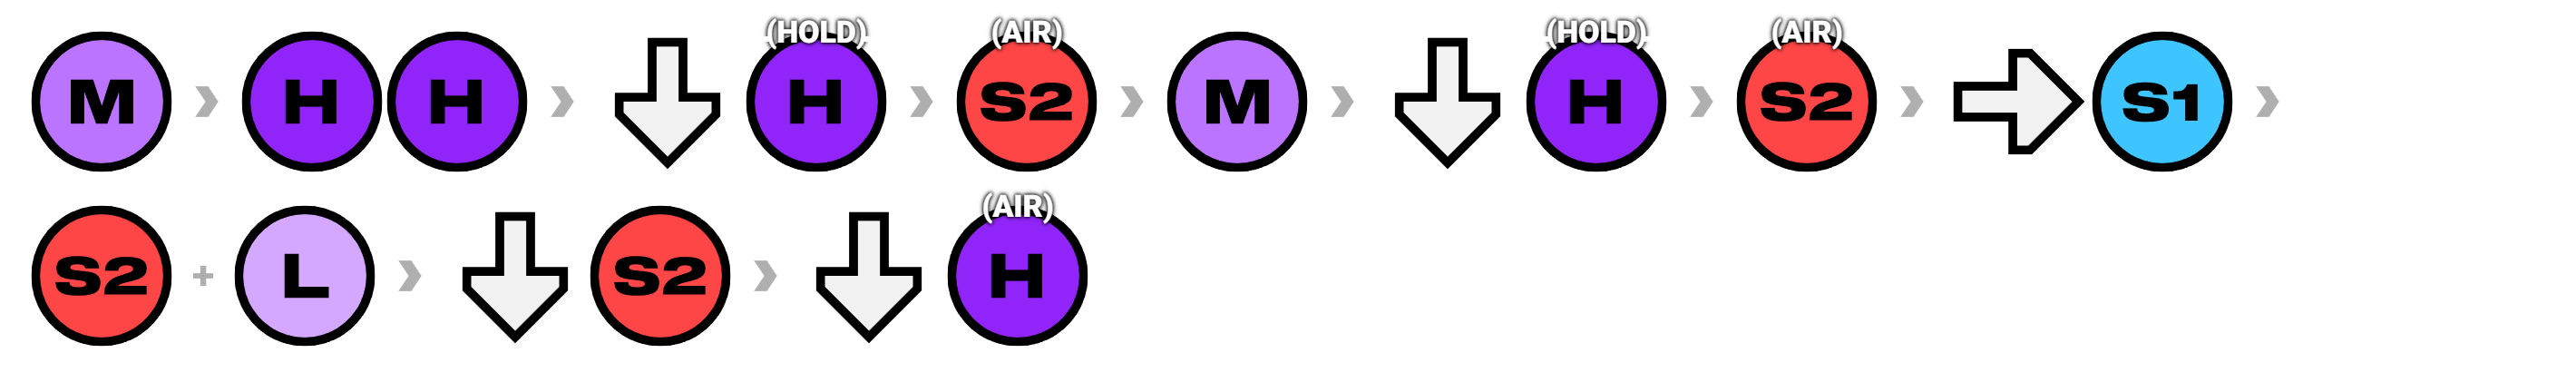
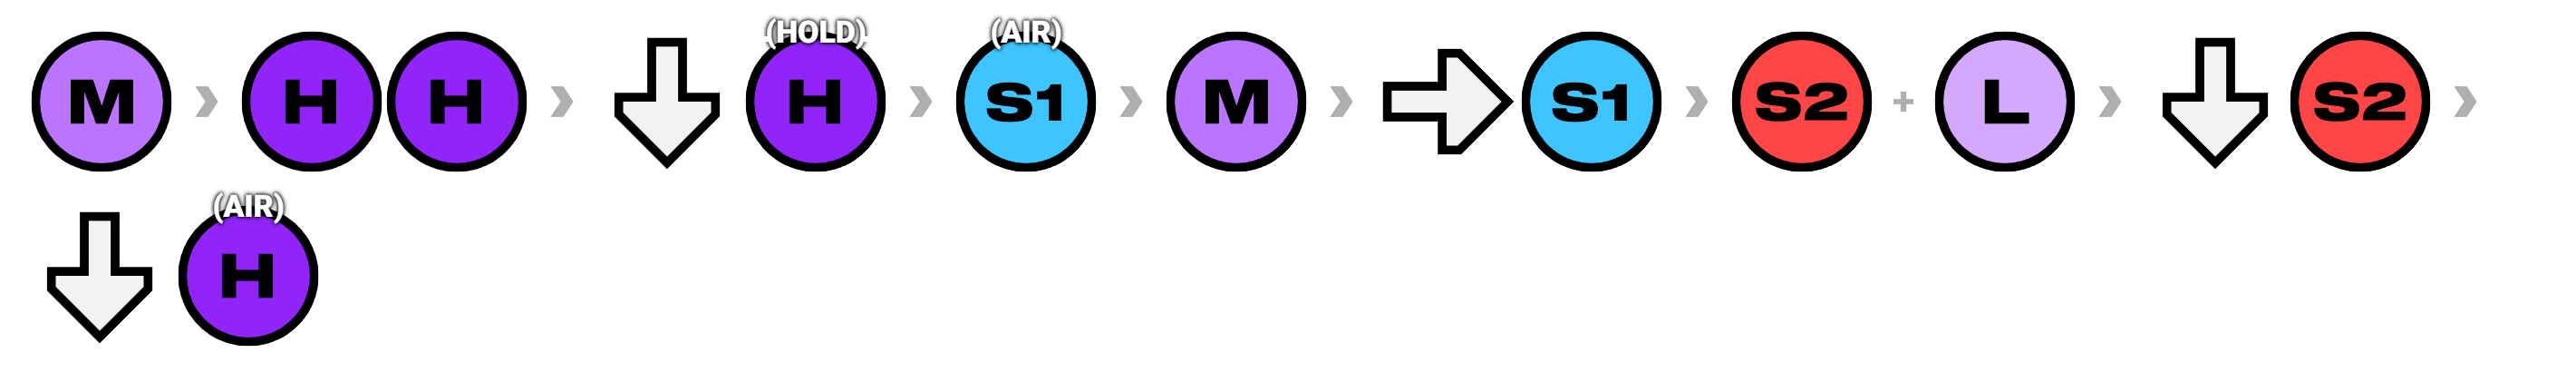
Teemo and Illaoi completed
also added warwick combo videos

diff --git a/src/data/characters/illaoi.js b/src/data/characters/illaoi.js
@@ -1,6 +1,6 @@
 export const illaoi = {
   name: 'Illaoi',
-  isComplete: false,
+  isComplete: true,
   archetype: 'bruiser',
   stats: {
     range: 3,
@@ -11,9 +11,9 @@ export const illaoi = {
   },
   heroImageOffset: { desktop: -57, mobile: -28 }, // Vertical offset in px for hero banner image (negative = up, positive = down)
  guideAuthor: {
-    name: 'Quicksand_FGC', // Author name to display
-    youtube: 'https://www.youtube.com/@Quicksand_FGC', // YouTube channel URL (leave empty if none)
-    twitter: 'https://x.com/Quicksand_FGC', // Twitter/X profile URL (leave empty if none)
+    name: 'BrueTube', // Author name to display
+    youtube: 'Just can link my YT https://youtube.com/@bruetube?si=tCpOqi3YZ_zQlMqN', // YouTube channel URL (leave empty if none)
+    twitter: '', // Twitter/X profile URL (leave empty if none)
     twitch: '', // Twitch channel URL (leave empty if none)
   },
   tabs: [
@@ -21,19 +21,18 @@ export const illaoi = {
         id: 'key_moves',
         title: 'Key Moves',
         description: [
-          "Vi is a rushdown character with the ability to swiftly move in, as well as bait and punish with 6S1.",
-          "Vi's 6S1 (Sway) is a great movement tool, but also can lead into her iconic Electrics. These are timing based attacks that can be performed after a 6S1, and if timed correctly for damage and pressure.",
-          "Overall, Vi is fast, aggressive, and thrives on getting in the opponent's face to keep them on the defensive.",
+          "Illaoi is a setplay character, with strong buttons and good wall carry to set up her tentacles for oki.",
+          "Her unique mechanic is tentacles which are summoned with S2 moves, and controlled by S1 moves. These tentacles define her character and are what allow her pressure and grabs to funciton."
         ],
         moves: [
-          { numericNotation: '5M/2M', notation: 'blabla', notationImage: '/key-moves-notation/illaoi/illaoi.png', description: 'Illaoi\'s mediums are very good. 5M and 2M help you approach while maintaining pressure from a good distance', video: 'videos/illaoi/key-moves/illaoi-key1.mp4' },
-          { numericNotation: '6S1', notation: 'blabla', notationImage: '/key-moves-notation/illaoi/illaoi2.png', description: 'This move has a huge hitbox and hurtbox but clears projectiles and traps. Use it to approach zoners like Jinx, Teemo and Caitlyn, or just to throw a large button to control space on the screen', video: 'videos/illaoi/key-moves/illaoi-key2.mp4' },
-          { numericNotation: 'S2 super', notation: 'blabla', notationImage: '/key-moves-notation/illaoi/illaoi3.png', description: 'High vertical reaching Anti-air, often very safe on block', video: 'videos/illaoi/key-moves/illaoi-key3.mp4' },
-          { numericNotation: 'j.S2', notation: 'blabla', notationImage: '/key-moves-notation/illaoi/illaoi4.png', description: 'Safest poke/combo starter normal in neutral	', video: 'videos/illaoi/key-moves/illaoi-key4.mp4' },
-          { numericNotation: 'S1 super', notation: 'blabla', notationImage: '/key-moves-notation/illaoi/illaoi5.png', description: 'Vi\'s 4 frame counter, easy to use on defense against auto-piloters', video: 'videos/illaoi/key-moves/illaoi-key5.mp4' },   
-          { numericNotation: '6S2', notation: 'blabla', notationImage: '/key-moves-notation/illaoi/illaoi5.png', description: 'Vi\'s 4 frame counter, easy to use on defense against auto-piloters', video: 'videos/illaoi/key-moves/illaoi-key5.mp4' },   
-          { numericNotation: '4S1/1S1', notation: 'blabla', notationImage: '/key-moves-notation/illaoi/illaoi5.png', description: 'Vi\'s 4 frame counter, easy to use on defense against auto-piloters', video: 'videos/illaoi/key-moves/illaoi-key5.mp4' },   
-          { numericNotation: '2S2', notation: 'blabla', notationImage: '/key-moves-notation/illaoi/illaoi5.png', description: 'Vi\'s 4 frame counter, easy to use on defense against auto-piloters', video: 'videos/illaoi/key-moves/illaoi-key5.mp4' }   
+          { numericNotation: '5M/2M', notation: 'blabla', notationImage: '/key-moves-notation/illaoi/illaoi1.png', description: 'Illaoi\'s mediums are very good. 5M and 2M help you approach while maintaining pressure from a good distance', video: 'videos/illaoi/key-moves/illaoi1.mp4' },
+          { numericNotation: '6S1', notation: 'blabla', notationImage: '/key-moves-notation/illaoi/illaoi2.png', description: 'This move has a huge hitbox and hurtbox but clears projectiles and traps. Use it to approach zoners like Jinx, Teemo and Caitlyn, or just to throw a large button to control space on the screen', video: 'videos/illaoi/key-moves/illaoi2.mp4' },
+          { numericNotation: 'S2 super', notation: 'blabla', notationImage: '/key-moves-notation/illaoi/illaoi3.png', description: 'High vertical reaching Anti-air, often very safe on block', video: 'videos/illaoi/key-moves/illaoi3.mp4' },
+          { numericNotation: 'j.S2', notation: 'blabla', notationImage: '/key-moves-notation/illaoi/illaoi4.png', description: 'Safest poke/combo starter normal in neutral	', video: 'videos/illaoi/key-moves/illaoi4.mp4' },
+          { numericNotation: 'S1 super', notation: 'blabla', notationImage: '/key-moves-notation/illaoi/illaoi5.png', description: 'Vi\'s 4 frame counter, easy to use on defense against auto-piloters', video: 'videos/illaoi/key-moves/illaoi5.mp4' },   
+          { numericNotation: '6S2', notation: 'blabla', notationImage: '/key-moves-notation/illaoi/illaoi6.png', description: 'Vi\'s 4 frame counter, easy to use on defense against auto-piloters', video: 'videos/illaoi/key-moves/illaoi6.mp4' },   
+          { numericNotation: '4S1/1S1', notation: 'blabla', notationImage: '/key-moves-notation/illaoi/illaoi7.png', description: 'Vi\'s 4 frame counter, easy to use on defense against auto-piloters', video: 'videos/illaoi/key-moves/illaoi7.mp4' },   
+          { numericNotation: '2S2', notation: 'blabla', notationImage: '/key-moves-notation/illaoi/illaoi8.png', description: 'Vi\'s 4 frame counter, easy to use on defense against auto-piloters', video: 'videos/illaoi/key-moves/illaoi8.mp4' }   
         ]
       },
       {
@@ -44,22 +43,27 @@ export const illaoi = {
 
         ],
         combos: [
-          { purpose: 'BnB', numericNotation: 'M > H > 6S1 > L > {M} > 6S1 > {M} > {H} > 6S1 > {M} > 6S1 > {M} > 6S1 > {L} > M > H > 2S2 > S2+M', notationImage: '/combo-notation/illaoi/illaoi-combo-1.png', video: 'videos/illaoi/combos/illaoi-combo-1.mp4' },
-          { purpose: 'Corner Combo', numericNotation: 'M > H > 6S1 > L > {M} > 6S1 > [L] > {M} > 6S1 > [L] > {M} > 6S1 > [L] > 6S1 > L > M > H > 2S2 > S2+M', notationImage: '/combo-notation/illaoi/illaoi-combo-2.png', video: 'videos/illaoi/combos/illaoi-combo-2.mp4' },
-          { purpose: 'Limit Strike', numericNotation: 'M > H > 6S1 > L > M > 6S1 > {M} > {H} > 6S1 > {M} > 6S1 > {M} > {H}', notationImage: '/combo-notation/illaoi/illaoi-combo-3.png', video: 'videos/illaoi/combos/illaoi-combo-3.mp4' },
-          { purpose: 'Tag Launcher', numericNotation: '2M > H > 6S1 > L > {M} > 6S1 > {L} > S1 > Dash > L > M > 2H > Jump > {j.S1} > 2M > Tag launch', notationImage: '/combo-notation/illaoi/illaoi-combo-4.png', video: 'videos/illaoi/combos/illaoi-combo-4.mp4' },
-          { purpose: 'Jump In', numericNotation: 'j.H> M > H > 6S1 > L > {M} > 6S1 >/*{M}*\/> {H} <*/> 6S1 <*/>{M}*\/> 6S1 <*/>{H}*\/> 6S1 <*/>{L}*\/> M <*/> H', notationImage: '/combo-notation/illaoi/illaoi-combo-5.png', video: 'videos/illaoi/combos/illaoi-combo-5.mp4' },
-          { purpose: 'Fury', numericNotation: 'M <*/> H <*/> 6S1 <*/> L <*/> {M} <*/> 6S1 <*/> {M} <*/> {H} <*/> 6S1 <*/> {M} <*/> 6S1 >>{M}> 6S1>{L}> M>H>Fury>Dash>H>H>S1>Dash cancel>H>2H>Jump>jH>jS1>Dash cancel>2S2>S1+S3', notationImage: '/combo-notation/illaoi/illaoi-combo-6.png', video: 'videos/illaoi/combos/illaoi-combo-6.mp4' }
+          { purpose: 'BnB', numericNotation: '2M>M>H>2S2>66>M>H>j.M>j.H>j.S1>2M>M>H>2H>j.M>j.H>j.S2', notationImage: '/combo-notation/illaoi/illaoi-combo-1.png', video: 'videos/illaoi/combos/illaoi-combo-1.mp4' },
+          { purpose: 'Corner Carry', numericNotation: '2M>5M>5H>2S2>66>66>5M>5H>j.L>j.M>j.H>j.S1>[2H]>2H>j.M>j.H>j.S2', notationImage: '/combo-notation/illaoi/illaoi-combo-2.png', video: 'videos/illaoi/combos/illaoi-combo-2.mp4' },
+          { purpose: 'Side Swap', numericNotation: '2M>M>H>2S2>66>M>H>j.M>j.H>j.S1>66>5L>5M>5H>j.M>j.H>j.S2', notationImage: '/combo-notation/illaoi/illaoi-combo-3.png', video: 'videos/illaoi/combos/illaoi-combo-3.mp4' },
+          { purpose: 'Jump In', numericNotation: 'j.[H]>2M>M>H>2S2>66>M>H>j.M>j.H>j.S1>2M>M>H>2H>j.M>j.H>j.S2', notationImage: '/combo-notation/illaoi/illaoi-combo-4.png', video: 'videos/illaoi/combos/illaoi-combo-4.mp4' },
+          { purpose: 'Crossup Jump In', numericNotation: 'j.[2H]>2M>M>H>2S2>66>M>H>j.M>j.H>j.S1>2M>M>H>2H>j.M>j.H>j.S2', notationImage: '/combo-notation/illaoi/illaoi-combo-5.png', video: 'videos/illaoi/combos/illaoi-combo-5.mp4' },
+          { purpose: 'Corner Combo (Medium)', numericNotation: '2M>5H>2S2>[2H].c>j.S1>[2H]>66>5M>5H>2H>j.M>j.H>j.S2', notationImage: '/combo-notation/illaoi/illaoi-combo-6.png', video: 'videos/illaoi/combos/illaoi-combo-6.mp4' },
+          { purpose: 'Corner Combo (HARD)', numericNotation: '2M>5M>5H>2S2>66>5M>5H>2H>j.L>j.L>j.L>j.L>j.S2>j.H>j.S1>2H>2S1>[2H].c>j.H>j.S2', notationImage: '/combo-notation/illaoi/illaoi-combo-7.png', video: 'videos/illaoi/combos/illaoi-combo-7.mp4' },
+          { purpose: 'Fury', numericNotation: '2M>5M>5H>2S2.c>Fury>66>5M>5H>j.M>j.H>j.S2.c>66.c>5L>2S1>[2H].c>j.H>j.S2>Super', notationImage: '/combo-notation/illaoi/illaoi-combo-8.png', video: 'videos/illaoi/combos/illaoi-combo-8.mp4' },
+          { purpose: 'Grab Combo', numericNotation: 'Grab>[2H]>66>2H>j.M>j.H>j.S2', notationImage: '/combo-notation/illaoi/illaoi-combo-9.png', video: 'videos/illaoi/combos/illaoi-combo-9.mp4' },
+          { purpose: 'Air Grab Combo', numericNotation: 'Air Grab>[2H]>66>2H>j.M>j.H>j.S2', notationImage: '/combo-notation/illaoi/illaoi-combo-10.png', video: 'videos/illaoi/combos/illaoi-combo-10.mp4' }
         ],
         //between combos and enders
         description2: [
         ],
         comboEnders: [
-          { purpose: 'For Oki', numericNotation: '6S1+H', notationImage: '/combo-notation/illaoi/combo-enders/illaoi-comboEnder1.png', video: 'videos/illaoi/combo-enders/illaoi-ender1.mp4' },
-          { purpose: 'Limit Strike', numericNotation: 'S2, 6S1+[H]', notationImage: '/combo-notation/illaoi/combo-enders/illaoi-comboEnder2.png', video: 'videos/illaoi/combo-enders/illaoi-ender2.mp4' },
-          { purpose: 'Damage and Super Followups', numericNotation: '2S2', notationImage: '/combo-notation/illaoi/combo-enders/illaoi-comboEnder3.png', video: 'videos/illaoi/combo-enders/illaoi-ender3.mp4' },
-          { purpose: 'Assist Setups', numericNotation: 'S1/Charge S1', notationImage: '/combo-notation/illaoi/combo-enders/illaoi-comboEnder4.png', video: 'videos/illaoi/combo-enders/illaoi-ender4.mp4' },
-          { purpose: 'Tag Launcher', numericNotation: 'Charge jS1 > Tag Launch', notationImage: '/combo-notation/illaoi/combo-enders/illaoi-comboEnder5.png', video: 'videos/illaoi/combo-enders/illaoi-ender5.mp4' },
+          { purpose: 'For Oki', numericNotation: 'S2+M', notationImage: '/combo-notation/illaoi/combo-enders/illaoi-comboEnder1.png', video: 'videos/illaoi/combo-enders/illaoi-ender1.mp4' },
+          { purpose: 'Limit Strike', numericNotation: '2S1', notationImage: '/combo-notation/illaoi/combo-enders/illaoi-comboEnder2.png', video: 'videos/illaoi/combo-enders/illaoi-ender2.mp4' },
+          { purpose: 'Damage', numericNotation: 'S1+L', notationImage: '/combo-notation/illaoi/combo-enders/illaoi-comboEnder3.png', video: 'videos/illaoi/combo-enders/illaoi-ender3.mp4' },
+          { purpose: 'Assist Setups', numericNotation: '6S2, j.S2', notationImage: '/combo-notation/illaoi/combo-enders/illaoi-comboEnder4.png', video: 'videos/illaoi/combo-enders/illaoi-ender4.mp4' },
+          { purpose: 'Tag Launcher', numericNotation: '2S1/j.S1 > T', notationImage: '/combo-notation/illaoi/combo-enders/illaoi-comboEnder5.png', video: 'videos/illaoi/combo-enders/illaoi-ender5.mp4' },
+          { purpose: 'Wall Bounce Limit Strike', numericNotation: '[2H]', notationImage: '/combo-notation/illaoi/combo-enders/illaoi-comboEnder6.png', video: 'videos/illaoi/combo-enders/illaoi-ender6.mp4' },
         ],
         //below everything
         description3: [
@@ -70,47 +74,32 @@ export const illaoi = {
       {
         id: 'team_synergies',
         title: 'Teams',
-        description: '',
+        description: ['Aside from Ekko, Illaoi has good teams with most characters. So we will break down each fuze type rather than give character specific examples',
+        "*Illaoi is one of the most enabling characters in the game, there really aren't any bad pairings with her character-wise."
+        ],
         teams: [
           {
-            pairing: 'Warwick',
-            fuseType: 'Double Down or Freeestyle',
-            explanation: 'If you are able to combo into the corner, ending in air S1, you can call WW before going into S2 super, tag to him, and land 2 of his 2S2 during/after the super, giving him full blood instantly',
+            pairing: 'Ekko',
+            fuseType: 'Freeestyle',
+            explanation: 'this team abuses Illaoi\'s 2[S2] together with Ekko\'s 6S1 or j.S2 to easily approach the opponent while being very annoying to deal with. Illaoi\'s tentacle pressure also empowers Ekko to be the mixup monster that he wants to be',
             videos: [
                { id: 'HHG4Cgu7uaw' }
             ]
           },
           {
-            pairing: 'Ekko or Yasuo',
-            fuseType: 'Freeestyle or 2x Assist',
-            explanation: 'Using Vi\'s double forward sway, in combination with these characters inherent ability to cross to the otherside open up many sandwhich opportunities for both characters',
-            videos: [
-              { id: 'SxOSBAEJYMY' }
-            ]
+            pairing: 'Any',
+            fuseType: 'Freeestyle',
+            explanation: 'This fuse allows Illaoi to set up multiple tentacles or trigger ones already out while still being able to keep other character on point with the tag back.',
           },
           {
-            pairing: 'Illaoi or Jinx',
+            pairing: 'Any',
             fuseType: '2x Assist',
-            explanation: 'Using Vi\'s forward Assist + Back assist, you get an anti-air assist that can be nearly anywhere on the screen quite quickly',
-            videos: [
-              { id: 'DCBAFBurj9c' }
-            ]
+            explanation: 'One of the best 1-2 2X assists, 5T into 4T causes the tentacle from the first assist to trigger and extend the combo. 4Tx2 hits the whole screen and is very reliable to poke with.',
           },
           {
-            pairing: 'Darius',
+            pairing: 'Any',
             fuseType: 'Double Down',
-            explanation: 'After a Vi combo, ending in S2 Super, tagging to Darius, he is able to tac on a lot of damage with his S2 specials and his own S2 super before Vi\'s ends',
-            videos: [
-              { id: 'j5ErgwxieV0' }
-            ]
-          },
-          {
-            pairing: 'Ahri',
-            fuseType: 'Freestyle',
-            explanation: 'The best ground movement plus the best air movement lets you be real tricky with how you approach and opens potential sandwhich options with Vi\'s Sway and charge S1 tag',
-            videos: [
-              { id: 'ptCethbZVNA' }
-            ]
+            explanation: 'Illaoi\'s worst duo fuse. There are some good pairings like Teemo and Blitz specifically being able to combo out of her tentacle super, but generally you want one of the other two for anyone else.',
           },
         ]
       },
@@ -119,25 +108,21 @@ export const illaoi = {
         title: 'Top Players',
         players: [
           {
-            name: 'Zando',
-            description: '',
+            name: 'Bleed',
+            description: 'Literally one of the best in the world, and they play Illaoi',
             socials: {
-              twitter: 'https://twitter.com/Zando',
-              youtube: 'https://www.youtube.com/@Zando',
-              twitch: 'http://www.twitch.tv/Zando'
+              twitter: 'https://x.com/bleedBTW',
+              twitch: 'https://www.twitch.tv/bleedbtw_'
             },
             highlights: [
-              { id: 'EZ2mbmn7nvM' }
+              { id: 'c_QvODVM0pw' }
             ]
           },
           {
-            name: 'Blaizzy',
-            description: '',
-            socials: {
-              twitch: 'https://www.twitch.tv/blaizzy'
-            },
+            name: 'Yosep',
+            description: 'No socials available, but look Yosep up on YouTube for some of the best Teemo gameplay out there',
             highlights: [
-              { id: 'S3CxJx9olO0' }
+              { id: 'bTebq4JPYPw' }
             ]
           },
         ]
@@ -147,13 +132,13 @@ export const illaoi = {
         title: 'Guides',
         videos: [
           { 
-            id: 'Ie8m5VuaXGA', 
+            id: 'pjnlKie640o', 
           },
           { 
-            id: 'tZLOSgLZFE4', 
+            id: '2Rh42FactYE', 
           },
           { 
-            id: 'tZd52GhWjgA', 
+            id: 'B0LbZ4pSACw', 
           },
         ],
       },

diff --git a/src/data/characters/teemo.js b/src/data/characters/teemo.js
@@ -1,6 +1,6 @@
 export const teemo = {
   name: 'Teemo',
-  isComplete: false,
+  isComplete: true,
   archetype: 'trap',
   stats: {
     range: 4,
@@ -40,7 +40,12 @@ export const teemo = {
     {
       id: 'important_solo_combos',
       title: 'Combos',
-      description: [],
+      //above both tables
+        description: [
+          "Teemo has a TON of combo routes and different considerations to choose from when picking combbos. Which badge do you need yo build? Are you close to a corner? Do you need raw damage?",
+          "Due to this, the combos listed are meant to teach certain techniques rather than be the BEST routes.",
+          "So when learning these combos focus on: single hit him, partial charging 2H for shroom loops, and setting up traps during S2+M(Megashroom). Once you have these techniques down, check out the guide lists for more optimal combos."
+        ],
       combos: [
         { purpose: 'Easy BnB', numericNotation: 'M > H > 2H > j.LLL > j.MMM > j.2H > 3H > S1+L', notationImage: '/combo-notation/teemo/teemo-combo-1.png', video: 'videos/teemo/combos/teemo-combo-1.mp4' },
         { purpose: 'BnB', numericNotation: 'M > HH > j.LLL > j.d.M(1 hit only) > H > j.LLL > j.2MMM > j.2H > 3H > S1+L', notationImage: '/combo-notation/teemo/teemo-combo-2.png', video: 'videos/teemo/combos/teemo-combo-2.mp4' },